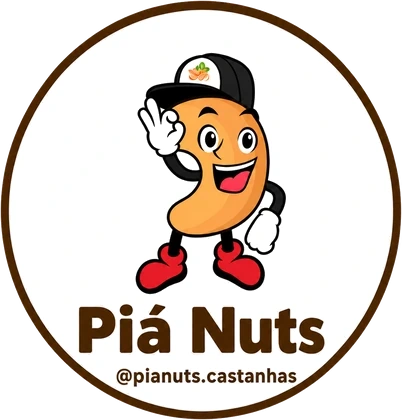
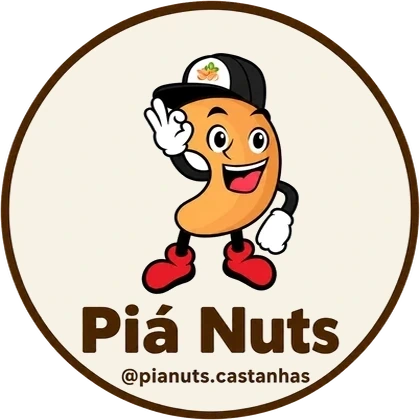
Straighten the essence stamp and give it a cream background
- Make the stamp image square so its ring is a true circle
- Fill the inner background with the site cream and keep the outside transparent
- Drop the rotation, circle crop and extra background from the stamp CSS

diff --git a/app/globals.css b/app/globals.css
@@ -112,8 +112,8 @@ h1 em, h2 em { color: var(--amber); font-weight: 500; }
 .mosaic-tall { grid-row: span 2; border-radius: 999px 999px 22px 22px; }
 .mosaic-tile img { object-fit: cover; transition: transform .8s ease; }
 .mosaic-tile:hover img { transform: scale(1.06); }
-.stamp { position: absolute; width: 158px; height: 158px; right: -10px; top: 48px; border-radius: 50%; filter: drop-shadow(0 16px 25px rgba(0,0,0,.23)); transform: rotate(7deg); overflow: hidden; background: var(--paper); }
-.stamp img { object-fit: cover; }
+.stamp { position: absolute; width: 158px; height: 158px; right: -10px; top: 48px; filter: drop-shadow(0 16px 25px rgba(0,0,0,.23)); }
+.stamp img { object-fit: contain; }
 .floating-label { position: absolute; left: 22px; bottom: 40px; padding: 18px 22px; display: flex; align-items: center; gap: 12px; color: var(--cocoa); background: var(--amber-light); border-radius: 15px; box-shadow: 0 20px 35px rgba(0,0,0,.2); }
 .floating-label span { font-size: .82rem; line-height: 1.35; }
 .floating-label strong { font-family: var(--font-display), serif; font-size: 1.12rem; }
